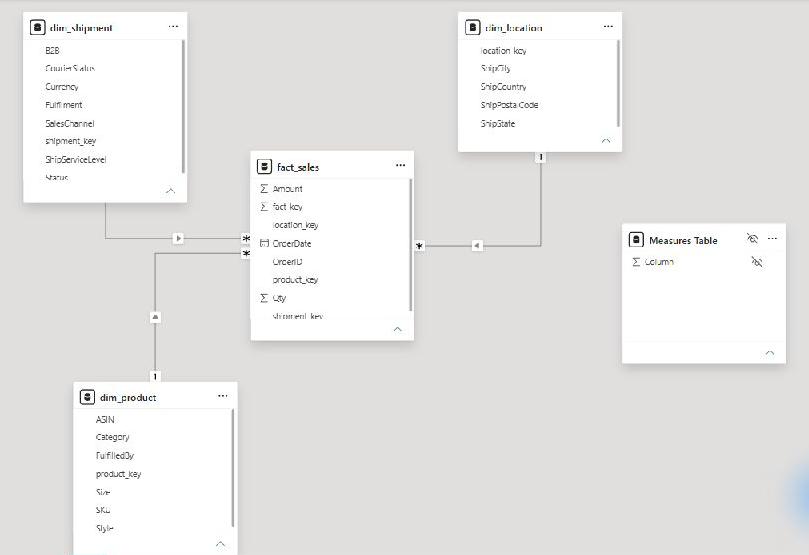
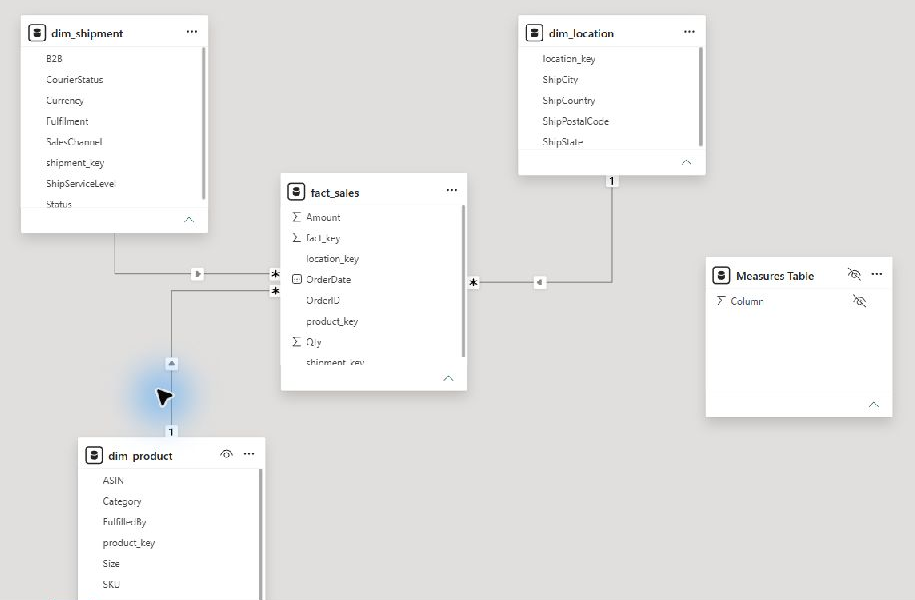
Improve dashboard previews and document fraud data model

diff --git a/index.html b/index.html
@@ -97,7 +97,7 @@
         </dl>
         <p><strong>Tools:</strong> Excel, MySQL, Power BI, Star Schema</p>
         <a class="project-action" href="amazon-india-sales.png?v=2">View report preview</a>
-        <figure><a href="amazon-model.png"><img class="report-preview" src="amazon-model.png" alt="Power BI model showing fact_sales linked to the shipment, location, and product dimensions." loading="lazy"></a><figcaption>Amazon India Sales star schema in Power BI. Select the image to view it at full size.</figcaption></figure>
+        <figure><a href="amazon-model.png?v=2"><img class="report-preview" src="amazon-model.png?v=2" alt="Power BI model showing fact_sales linked to the shipment, location, and product dimensions." loading="lazy"></a><figcaption>Amazon India Sales star schema in Power BI. Select the image to view it at full size.</figcaption></figure>
 <details>
             <summary>Project approach and scope</summary>
             <h4>The question</h4>
@@ -115,12 +115,14 @@
     <article class="card" aria-labelledby="fraud-title">
 <h3 id="fraud-title">Card Fraud Explorer</h3>
 <p class="project-date">Transaction fraud · Card portfolio · Power BI</p>
-<figure><a href="fraud-explorer.png"><img class="report-preview" src="fraud-explorer.png" alt="Fraud Explorer with a monthly fraud-rate trend, headline metrics, and channel comparison." loading="lazy"></a><figcaption>Fraud Explorer report preview. Select the image to view it at full size.</figcaption></figure>
-<figure><a href="fraud-portfolio.png"><img class="report-preview" src="fraud-portfolio.png" alt="Card Portfolio with card inventory, cards by brand, and fraud rates and case counts by card type." loading="lazy"></a><figcaption>Card Portfolio report preview. Select the image to view it at full size.</figcaption></figure>
+<figure><a href="fraud-explorer.png?v=2"><img class="report-preview" src="fraud-explorer.png?v=2" alt="Fraud Explorer with a monthly fraud-rate trend, headline metrics, and channel comparison." loading="lazy"></a><figcaption>Fraud Explorer report preview. Select the image to view it at full size.</figcaption></figure>
+<figure><a href="fraud-portfolio.png?v=2"><img class="report-preview" src="fraud-portfolio.png?v=2" alt="Card Portfolio with card inventory, cards by brand, and fraud rates and case counts by card type." loading="lazy"></a><figcaption>Card Portfolio report preview. Select the image to view it at full size.</figcaption></figure>
+<figure><a href="fraud-model.png?v=2"><img class="report-preview" src="fraud-model.png?v=2" alt="Power BI relationship diagram for the card fraud report." loading="lazy"></a><figcaption>Card Fraud Power BI data model. Select the image to view it at full size.</figcaption></figure>
+<details><summary>Project approach and scope</summary>
 <h4>The question</h4><p>Which transaction channels and card types had the most recorded fraud, and which had the highest fraud rates among labeled transactions?</p>
 <h4>The approach</h4><p>Built a Power BI star schema with transaction and card snapshot fact tables and card, customer, date, and merchant-category dimensions. Used fraud labels to calculate case counts, rates, gross exposure, and label coverage.</p>
 <h4>The report</h4><p>Fraud Explorer compares channels and tracks monthly fraud rates, with filters for card type and merchant category. Card Portfolio compares the card-brand mix and shows fraud rates by card type alongside fraud counts and labeled transaction volumes.</p>
-<h4>What the dataset shows</h4><p>Online transactions accounted for 8,779 of 13,332 recorded fraud cases (66%) and about 75% of the $1.75 million in gross fraud exposure. Prepaid debit had the highest fraud rate (0.22%), while regular debit had the most cases across all channels. The overall rate was 0.15% among labeled transactions, which covered 67% of transactions.</p>
+<h4>What the dataset shows</h4><p>Online transactions accounted for 8,779 of 13,332 recorded fraud cases (66%) and about 75% of the $1.75 million in gross fraud exposure. Prepaid debit had the highest fraud rate (0.22%), while regular debit had the most cases across all channels. The overall rate was 0.15% among labeled transactions, which covered 67% of transactions.</p><h4>Scope and definitions</h4><p class="scope">Fraud rate divides fraud-labeled transactions by all labeled transactions. Gross fraud exposure sums the absolute amounts of fraud-labeled transactions. Findings reflect the unfiltered report, and channel and card-type results are shown separately.</p></details>
 </article>
 <article class="card" aria-labelledby="leasing-title">
         <h3 id="leasing-title">Leasing Funnel Performance Dashboard</h3>
